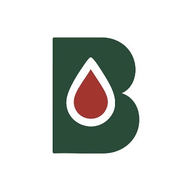
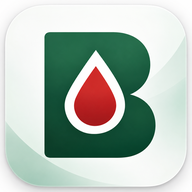
Add files via upload

diff --git a/sw.js b/sw.js
@@ -1,5 +1,5 @@
-const CACHE='biocare-app-icon-v2-20261012';
-const ASSETS=['./','./index.html','./styles.css','./catalog.js','./app.js','./profile.js','./saleem.js','./services.js','./biocare-cloud.js','./biocare-location.js','./biocare-team-provider.js','./biocare-cms.js','./team.html','./admin.html','./admin.js','./manifest.webmanifest','./biocare-icon-192.png','./biocare-icon-512.png','./biocare-apple-touch-icon.png','./logo-full.png',,];
+const CACHE='biocare-ios-icon-v3-20261012';
+const ASSETS=['./','./index.html','./styles.css','./catalog.js','./app.js','./profile.js','./saleem.js','./services.js','./biocare-cloud.js','./biocare-location.js','./biocare-team-provider.js','./biocare-cms.js','./team.html','./admin.html','./admin.js','./manifest.webmanifest','./logo-full.png','./icon-192.png','./icon-512.png','./apple-touch-icon.png'];
 self.addEventListener('install',e=>e.waitUntil(caches.open(CACHE).then(c=>c.addAll(ASSETS)).then(()=>self.skipWaiting())));
 self.addEventListener('activate',e=>e.waitUntil(caches.keys().then(ks=>Promise.all(ks.filter(k=>k!==CACHE).map(k=>caches.delete(k)))).then(()=>self.clients.claim())));
 self.addEventListener('fetch',e=>{if(e.request.method!=='GET')return;e.respondWith(fetch(e.request).then(r=>{const x=r.clone();caches.open(CACHE).then(c=>c.put(e.request,x));return r}).catch(()=>caches.match(e.request).then(r=>r||caches.match('./index.html'))))});

diff --git a/index.html b/index.html
@@ -7,9 +7,11 @@
 <meta name="apple-mobile-web-app-capable" content="yes">
 <meta name="apple-mobile-web-app-status-bar-style" content="default">
 <meta name="apple-mobile-web-app-title" content="Biocare">
+<link rel="apple-touch-icon" sizes="180x180" href="./apple-touch-icon.png">
+<link rel="apple-touch-icon-precomposed" sizes="180x180" href="./apple-touch-icon.png">
+<link rel="icon" type="image/png" sizes="192x192" href="./icon-192.png">
+<link rel="manifest" href="./manifest.webmanifest">
 <meta name="description" content="مختبرات بيوكير الطبية - التحاليل والباقات والحجز والنتائج والاستشارات">
-<link rel="apple-touch-icon" href="biocare-apple-touch-icon.png">
-<link rel="manifest" href="manifest.webmanifest">
 <link rel="stylesheet" href="styles.css">
 <title>مختبرات بيوكير الطبية | Biocare</title>
 </head>
